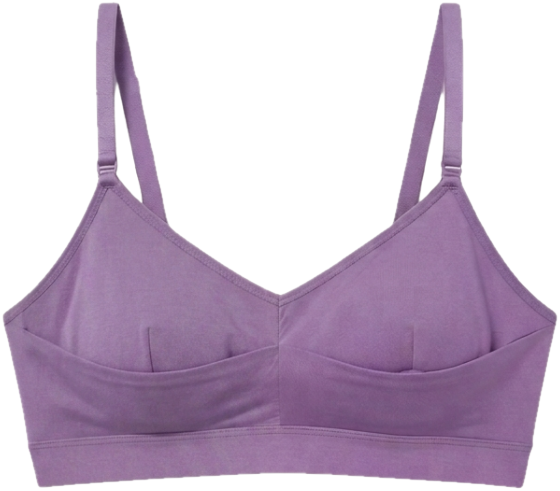
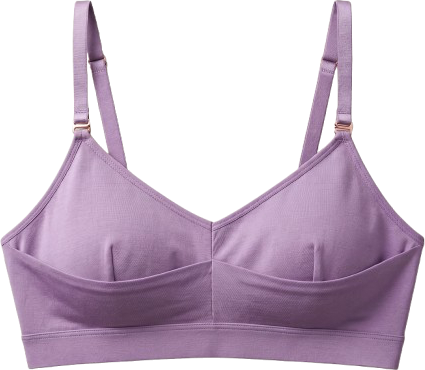
Reframe signup around early access, and re-aim panel 2 at the new shot
Your edits: the hero now asks people to be first to know at launch and
says early testers are picked from the early access list, and bra.png
(the untouched source of the cutout) is dropped. Two things tidied on
the way past -- the wordmark is linked home, since with the referral
copy gone this page had no route back at all, and the <br /> left behind
when the referral line was deleted is removed, because it rendered as a
blank line above the remaining text.

The new bra-front.png carried a 500x500 frame with faint sub-alpha-10
haze across all of it, so getbbox() saw no margin to trim and the
garment sat in the top three quarters with dead space underneath. That
dead space was most of the "padding below the bra". Haze zeroed, then
trimmed to the real bounds: 425x370.

With the frame honest, the rest follows. The stage cap goes from 660px
to 820px and the card's vertical padding and row gap come right down, so
the product is much larger and the one-liner and callout sit close under
it. The cup centres move to 26% / 74% across and 64% down -- measured
off the new shot, on the pocket line rather than up near the neckline --
and the window masks, module offsets and hit targets all move with them.

Rotation is gone by request, and with it the .bra-turn wrapper, its
keyframes, the hover-to-pause rule and the stage's perspective.

Changed region(s): [[0.0, 0.0, 1.0, 1.0], [0.2141, 0.9514, 0.7647, 0.9811], [0.8259, 0.1486, 0.8565, 0.1784]]

diff --git a/index.html b/index.html
@@ -48,11 +48,11 @@
          - .p1-shot   the lifestyle photograph. Still a labelled
                       .lp-ph box; grep -n 'lp-ph lp-ph--' finds it.
 
-       Panel 2 is the real product photograph, turning on a shallow
-       rotateY so it presents like a turntable. A true 360 spin would need
-       an actual 3D model: with a flat photograph, anything past about
-       twenty degrees stops reading as rotation and starts reading as
-       skew.
+       Panel 2 is the real product photograph, held still. It used to
+       rock on a shallow rotateY like a turntable; that is gone by
+       request. A true 360 spin would need an actual 3D model anyway --
+       with a flat photograph, anything past about twenty degrees stops
+       reading as rotation and starts reading as skew.
 
        It loads /style.css for the shared type and colour: Quicksand, the
        serif display face, the plum ink and the periwinkle button are the
@@ -290,8 +290,8 @@
       grid-template-rows: 1fr auto;
       align-items: center;
       justify-items: center;
-      gap: clamp(8px, 2vh, 24px);
-      padding: clamp(24px, 4vh, 56px) clamp(20px, 4vw, 56px);
+      gap: clamp(4px, 0.8vh, 10px);
+      padding: clamp(10px, 1.6vh, 22px) clamp(20px, 4vw, 56px);
       border-radius: var(--zr);
       background:
         radial-gradient(122% 100% at 50% 24%, #F3EDFC 0%, #E1DAF5 44%, #C7BFE6 100%);
@@ -308,31 +308,14 @@
         window masks below are positioned as percentages of this box, so the
         photograph has to fill it exactly. Capping height instead would
         letterbox it and slide the cups out from under their buttons. The
-        vh term keeps it inside a short viewport (the shot is 560x491
-        with the studio margin trimmed off, so height is 0.88x width). */
+        vh term keeps it inside a short viewport (the shot is 425x370 with
+        its transparent margin trimmed off, so height is 0.87x width). */
     .stage {
       position: relative;
-      width: min(100%, 660px, 62vh);
+      width: min(100%, 820px, 78vh);
       display: grid;
       place-items: center;
-      perspective: 1400px;
     }
-
-    .bra-turn {
-      width: 100%;
-      transform-style: preserve-3d;
-      animation: bra-turn 16s ease-in-out infinite alternate;
-      will-change: transform;
-    }
-
-    @keyframes bra-turn {
-      from { transform: rotateY(-11deg) rotateX(2deg); }
-      to   { transform: rotateY(11deg) rotateX(-1.5deg); }
-    }
-
-    /*  Stop the turntable while someone is inspecting a cup. */
-    .stage:hover .bra-turn,
-    .stage:focus-within .bra-turn { animation-play-state: paused; }
 
     .shot {
       position: relative;
@@ -361,20 +344,20 @@
     }
 
     .win--l {
-      -webkit-mask-image: radial-gradient(ellipse 15% 16% at 27% 57%, #000 44%, rgba(0, 0, 0, 0) 100%);
-      mask-image: radial-gradient(ellipse 15% 16% at 27% 57%, #000 44%, rgba(0, 0, 0, 0) 100%);
+      -webkit-mask-image: radial-gradient(ellipse 15% 16% at 26% 64%, #000 44%, rgba(0, 0, 0, 0) 100%);
+      mask-image: radial-gradient(ellipse 15% 16% at 26% 64%, #000 44%, rgba(0, 0, 0, 0) 100%);
     }
 
     .win--r {
-      -webkit-mask-image: radial-gradient(ellipse 15% 16% at 73% 57%, #000 44%, rgba(0, 0, 0, 0) 100%);
-      mask-image: radial-gradient(ellipse 15% 16% at 73% 57%, #000 44%, rgba(0, 0, 0, 0) 100%);
+      -webkit-mask-image: radial-gradient(ellipse 15% 16% at 74% 64%, #000 44%, rgba(0, 0, 0, 0) 100%);
+      mask-image: radial-gradient(ellipse 15% 16% at 74% 64%, #000 44%, rgba(0, 0, 0, 0) 100%);
     }
 
     /*  Square art, so its height as a share of the box is width x
-        (560/491). Centred on the same cup apexes as the windows. */
+        (425/370) = 1.149x. Centred on the same points as the windows. */
     .mod {
       position: absolute;
-      width: 26%;
+      width: 22%;
       height: auto;
       opacity: 0;
       pointer-events: none;
@@ -382,8 +365,8 @@
       overflow: visible;
     }
 
-    .mod--l { left: 14%; top: 42.2%; }
-    .mod--r { left: 60%; top: 42.2%; }
+    .mod--l { left: 15%; top: 51.4%; }
+    .mod--r { left: 63%; top: 51.4%; }
 
     .stage.is-l .win--l,
     .stage.is-r .win--r { opacity: 1; }
@@ -400,13 +383,13 @@
     }
 
     /*  Percentages of .stage, which is exactly the photograph, so these
-        sit over the cup apexes at 27% / 73% across and 57% down — the
+        sit over the cup centres at 26% / 74% across and 64% down — the
         same centres the window masks use. */
     .hot {
       position: absolute;
-      top: 43%;
-      width: 26%;
-      height: 28%;
+      top: 49%;
+      width: 28%;
+      height: 30%;
       padding: 0;
       border: 0;
       border-radius: 50%;
@@ -415,8 +398,8 @@
       -webkit-tap-highlight-color: transparent;
     }
 
-    .hot--l { left: 14%; }
-    .hot--r { right: 14%; }
+    .hot--l { left: 12%; }
+    .hot--r { right: 12%; }
 
     .hot:focus-visible {
       outline: 3px solid var(--ms-peri-deep);
@@ -515,16 +498,14 @@
       .p1-scroll { display: none; }
       .p1-shot { height: min(44vh, 400px); }
       .p2 { height: 200vh; }
-      .hot { width: 30%; height: 30%; top: 42%; }
-      .hot--l { left: 12%; }
-      .hot--r { right: 12%; }
+      .hot { width: 32%; height: 32%; top: 48%; }
+      .hot--l { left: 10%; }
+      .hot--r { right: 10%; }
     }
 
     @media (prefers-reduced-motion: reduce) {
       .cs-field,
       .cs-field-b,
-      .bra-turn,
-      .cup-pin,
       .pulse-a,
       .pulse-b,
       .p1-scroll svg { animation: none; }
@@ -613,55 +594,53 @@
                   means moving the two mask centres in .win--l / .win--r
                   and the matching .mod offsets.
                   ====================================== -->
-            <div class="bra-turn">
-              <div class="shot">
-                <img class="shot-base" src="/assets/images/bra-front.png"
-                  alt="The MilkShaker bra, front view" width="560" height="491" />
+            <div class="shot">
+              <img class="shot-base" src="/assets/images/bra-front.png"
+                alt="The MilkShaker bra, front view" width="425" height="370" />
 
-                <div class="win win--l" aria-hidden="true"></div>
-                <div class="win win--r" aria-hidden="true"></div>
-                <svg class="mod mod--l" viewBox="0 0 120 120" aria-hidden="true">
-                  <defs>
-                    <radialGradient id="modface-l" cx="36%" cy="30%" r="74%">
-                      <stop offset="0%" stop-color="#C3C2EA" />
-                      <stop offset="58%" stop-color="#7472BE" />
-                      <stop offset="100%" stop-color="#4B4992" />
-                    </radialGradient>
-                  </defs>
-                  <circle cx="60" cy="60" r="54" fill="rgba(98,96,173,0.16)" />
-                  <circle class="pulse-a" cx="60" cy="60" r="46" fill="none" stroke="#7472BE"
-                    stroke-width="1.8" />
-                  <circle class="pulse-b" cx="60" cy="60" r="46" fill="none" stroke="#7472BE"
-                    stroke-width="1.8" />
-                  <circle cx="60" cy="60" r="38" fill="none" stroke="#6260AD" stroke-width="2.4"
-                    opacity="0.5" />
-                  <circle cx="60" cy="60" r="29" fill="none" stroke="#6260AD" stroke-width="2.4"
-                    opacity="0.78" />
-                  <circle cx="60" cy="60" r="20" fill="url(#modface-l)" />
-                  <circle cx="60" cy="60" r="6.5" fill="#FBF7F0" opacity="0.88" />
-                </svg>
-                <svg class="mod mod--r" viewBox="0 0 120 120" aria-hidden="true">
-                  <defs>
-                    <radialGradient id="modface-r" cx="36%" cy="30%" r="74%">
-                      <stop offset="0%" stop-color="#C3C2EA" />
-                      <stop offset="58%" stop-color="#7472BE" />
-                      <stop offset="100%" stop-color="#4B4992" />
-                    </radialGradient>
-                  </defs>
-                  <circle cx="60" cy="60" r="54" fill="rgba(98,96,173,0.16)" />
-                  <circle class="pulse-a" cx="60" cy="60" r="46" fill="none" stroke="#7472BE"
-                    stroke-width="1.8" />
-                  <circle class="pulse-b" cx="60" cy="60" r="46" fill="none" stroke="#7472BE"
-                    stroke-width="1.8" />
-                  <circle cx="60" cy="60" r="38" fill="none" stroke="#6260AD" stroke-width="2.4"
-                    opacity="0.5" />
-                  <circle cx="60" cy="60" r="29" fill="none" stroke="#6260AD" stroke-width="2.4"
-                    opacity="0.78" />
-                  <circle cx="60" cy="60" r="20" fill="url(#modface-r)" />
-                  <circle cx="60" cy="60" r="6.5" fill="#FBF7F0" opacity="0.88" />
-                </svg>
+              <div class="win win--l" aria-hidden="true"></div>
+              <div class="win win--r" aria-hidden="true"></div>
+              <svg class="mod mod--l" viewBox="0 0 120 120" aria-hidden="true">
+                <defs>
+                  <radialGradient id="modface-l" cx="36%" cy="30%" r="74%">
+                    <stop offset="0%" stop-color="#C3C2EA" />
+                    <stop offset="58%" stop-color="#7472BE" />
+                    <stop offset="100%" stop-color="#4B4992" />
+                  </radialGradient>
+                </defs>
+                <circle cx="60" cy="60" r="54" fill="rgba(98,96,173,0.16)" />
+                <circle class="pulse-a" cx="60" cy="60" r="46" fill="none" stroke="#7472BE"
+                  stroke-width="1.8" />
+                <circle class="pulse-b" cx="60" cy="60" r="46" fill="none" stroke="#7472BE"
+                  stroke-width="1.8" />
+                <circle cx="60" cy="60" r="38" fill="none" stroke="#6260AD" stroke-width="2.4"
+                  opacity="0.5" />
+                <circle cx="60" cy="60" r="29" fill="none" stroke="#6260AD" stroke-width="2.4"
+                  opacity="0.78" />
+                <circle cx="60" cy="60" r="20" fill="url(#modface-l)" />
+                <circle cx="60" cy="60" r="6.5" fill="#FBF7F0" opacity="0.88" />
+              </svg>
+              <svg class="mod mod--r" viewBox="0 0 120 120" aria-hidden="true">
+                <defs>
+                  <radialGradient id="modface-r" cx="36%" cy="30%" r="74%">
+                    <stop offset="0%" stop-color="#C3C2EA" />
+                    <stop offset="58%" stop-color="#7472BE" />
+                    <stop offset="100%" stop-color="#4B4992" />
+                  </radialGradient>
+                </defs>
+                <circle cx="60" cy="60" r="54" fill="rgba(98,96,173,0.16)" />
+                <circle class="pulse-a" cx="60" cy="60" r="46" fill="none" stroke="#7472BE"
+                  stroke-width="1.8" />
+                <circle class="pulse-b" cx="60" cy="60" r="46" fill="none" stroke="#7472BE"
+                  stroke-width="1.8" />
+                <circle cx="60" cy="60" r="38" fill="none" stroke="#6260AD" stroke-width="2.4"
+                  opacity="0.5" />
+                <circle cx="60" cy="60" r="29" fill="none" stroke="#6260AD" stroke-width="2.4"
+                  opacity="0.78" />
+                <circle cx="60" cy="60" r="20" fill="url(#modface-r)" />
+                <circle cx="60" cy="60" r="6.5" fill="#FBF7F0" opacity="0.88" />
+              </svg>
 
-              </div>
             </div>
 
             <button class="hot hot--l" type="button" data-side="l" aria-describedby="callout">

diff --git a/coming-soon-early-access.html b/coming-soon-early-access.html
@@ -87,12 +87,14 @@
 
 
   <!--====== HEADER ======
-        Just the wordmark. This page has no navigation by design, and
-        while the rest of the site is dormant there is nowhere for a menu
-        to go: the only route off the page is the form, plus the two
-        legal links in the footer. ======-->
+        Just the wordmark, linked home. This page has no navigation by
+        design, and while the rest of the site is dormant there is nowhere
+        for a menu to go: the only routes off it are the wordmark, the
+        form, and the two legal links in the footer. ======-->
   <header class="lp-focus-header">
-    <img src="/assets/images/milkshaker-wordmark.png" alt="MilkShaker" width="1380" height="232" />
+    <a href="/" aria-label="MilkShaker home">
+      <img src="/assets/images/milkshaker-wordmark.png" alt="MilkShaker" width="1380" height="232" />
+    </a>
   </header>
 
   <main id="main">
@@ -101,10 +103,9 @@
     <section class="lp-hero">
       <div class="lp-wrap">
         <div class="lp-center">
-          <h1 class="lp-title">Get early access now&mdash;for you and a friend.</h1>
+          <h1 class="lp-title">Be the first to know when we launch</h1>
           <p class="lp-lede">
-            Every friend you refer takes 5% off.<br />
-            <strong>Refer 15 and secure a final price of $100.</strong>
+            <strong>Early testers will be selected from early access signups.</strong>
           </p>
         </div>
 
